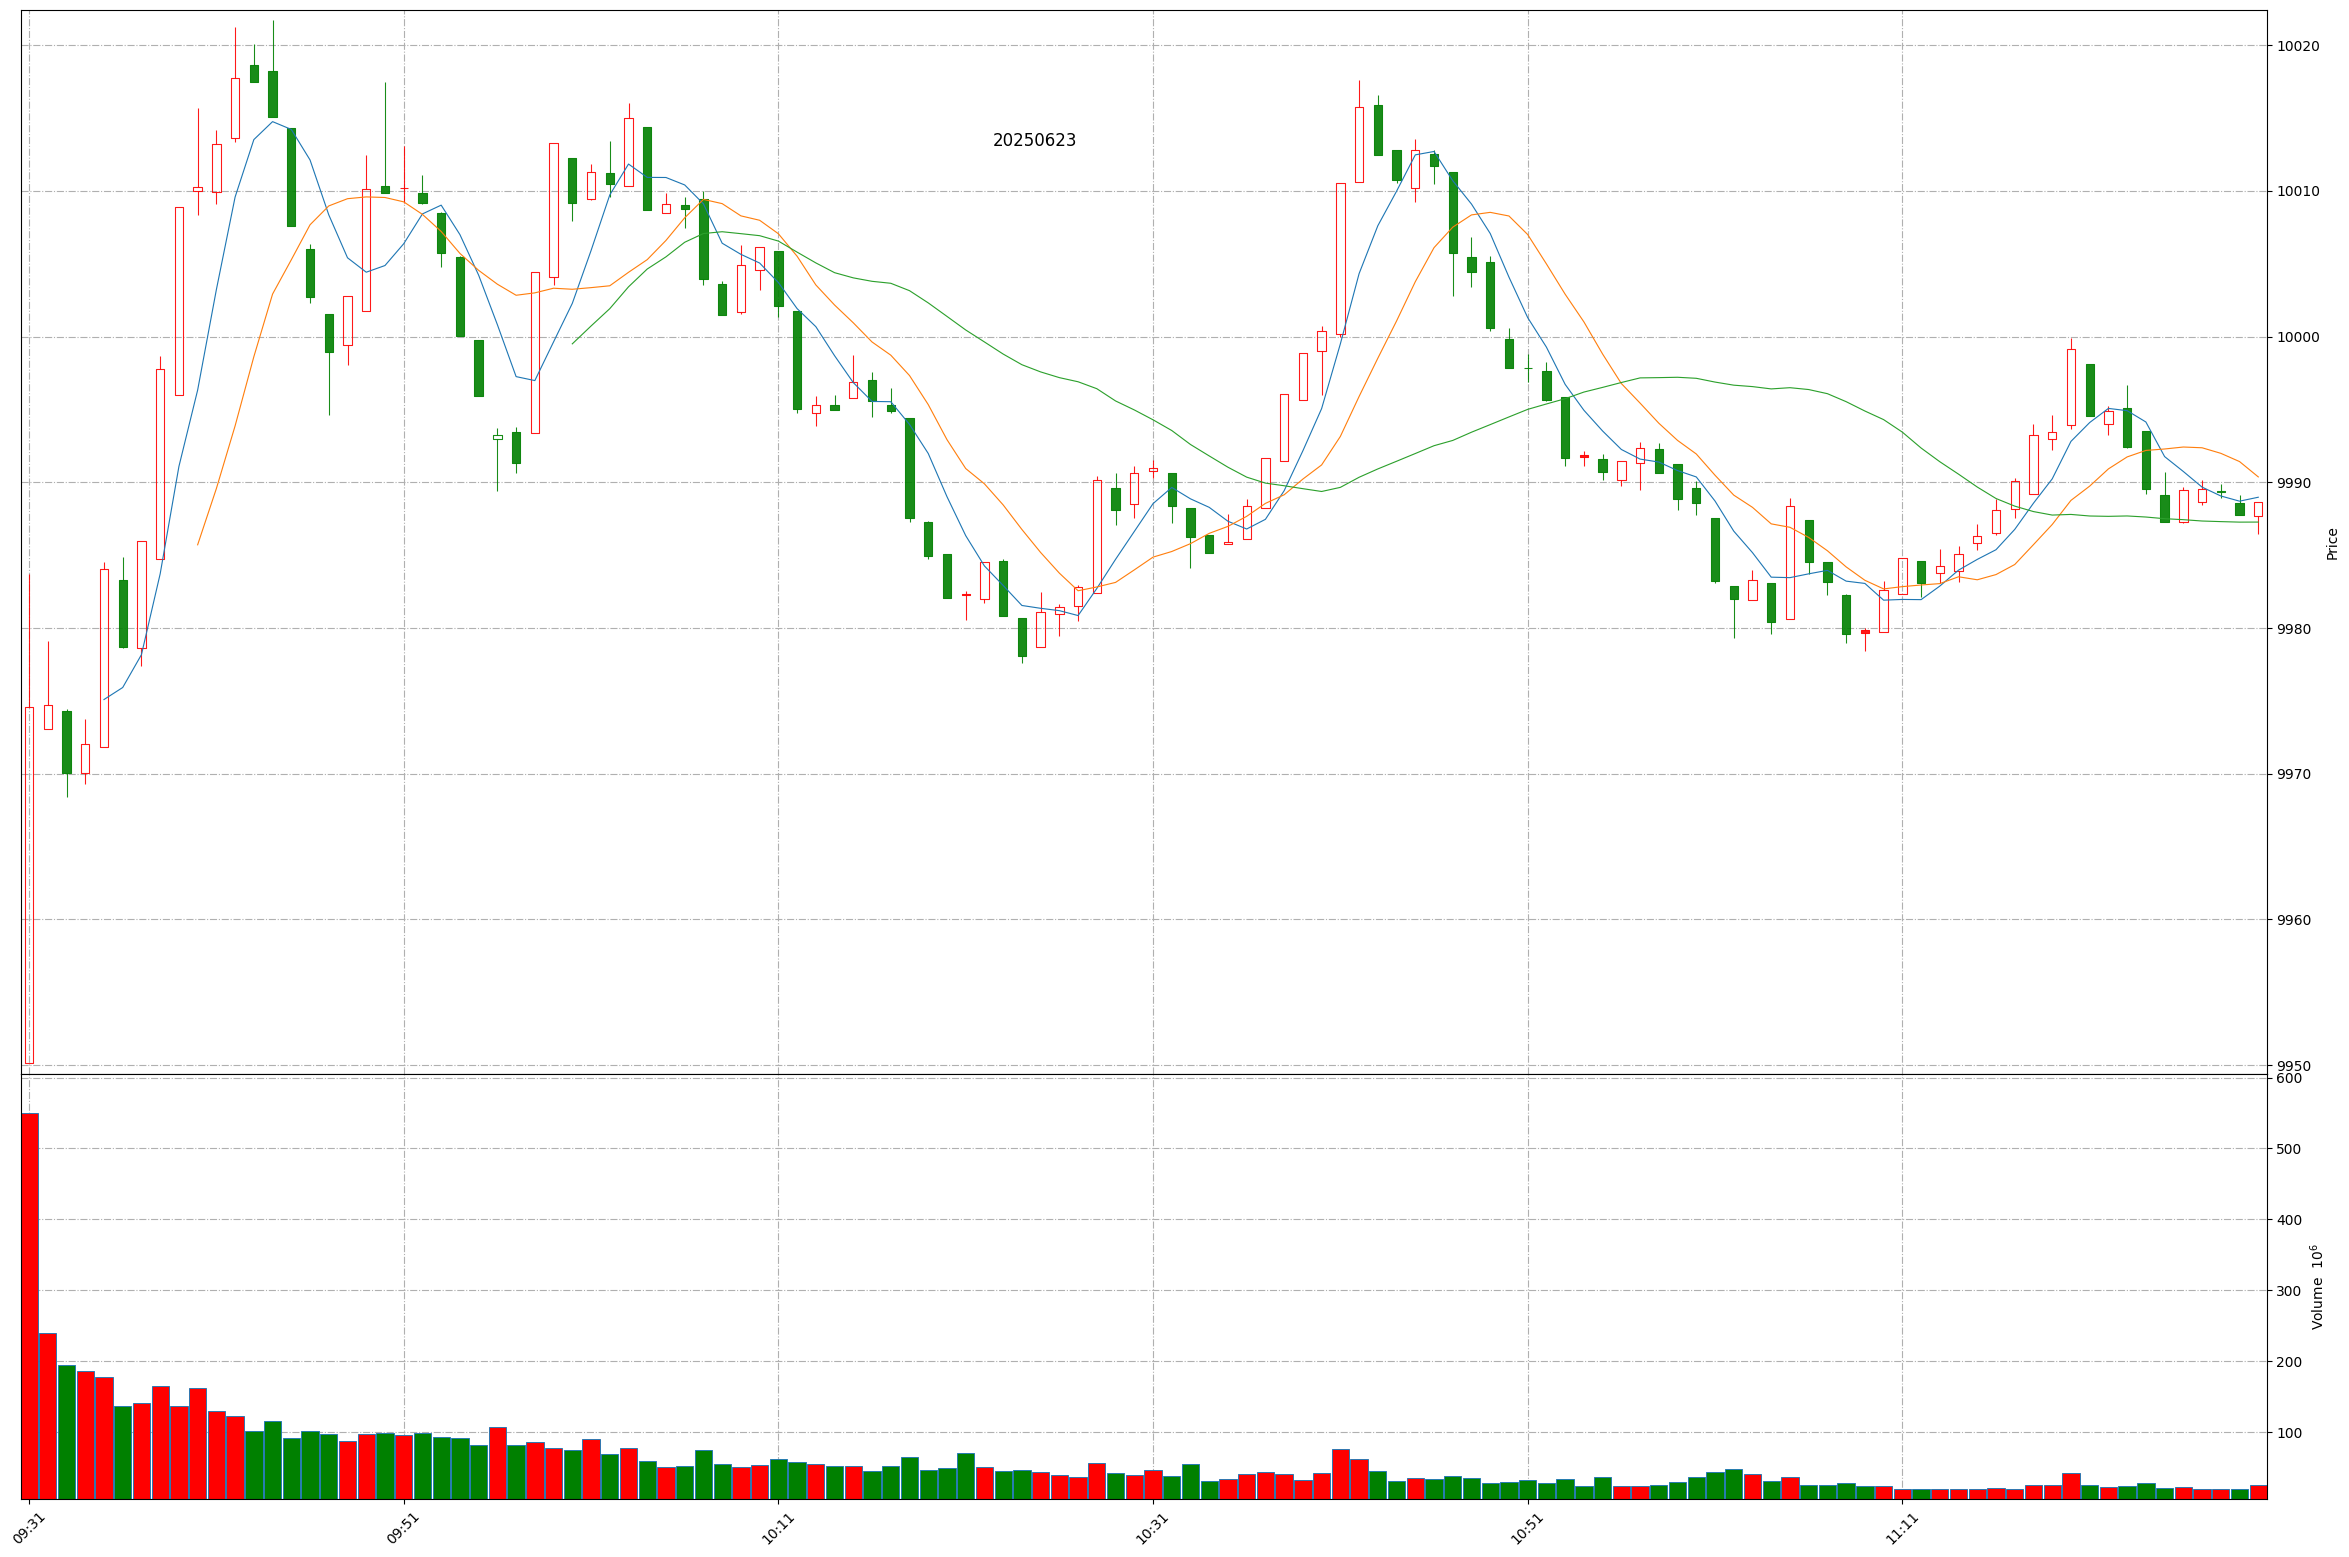
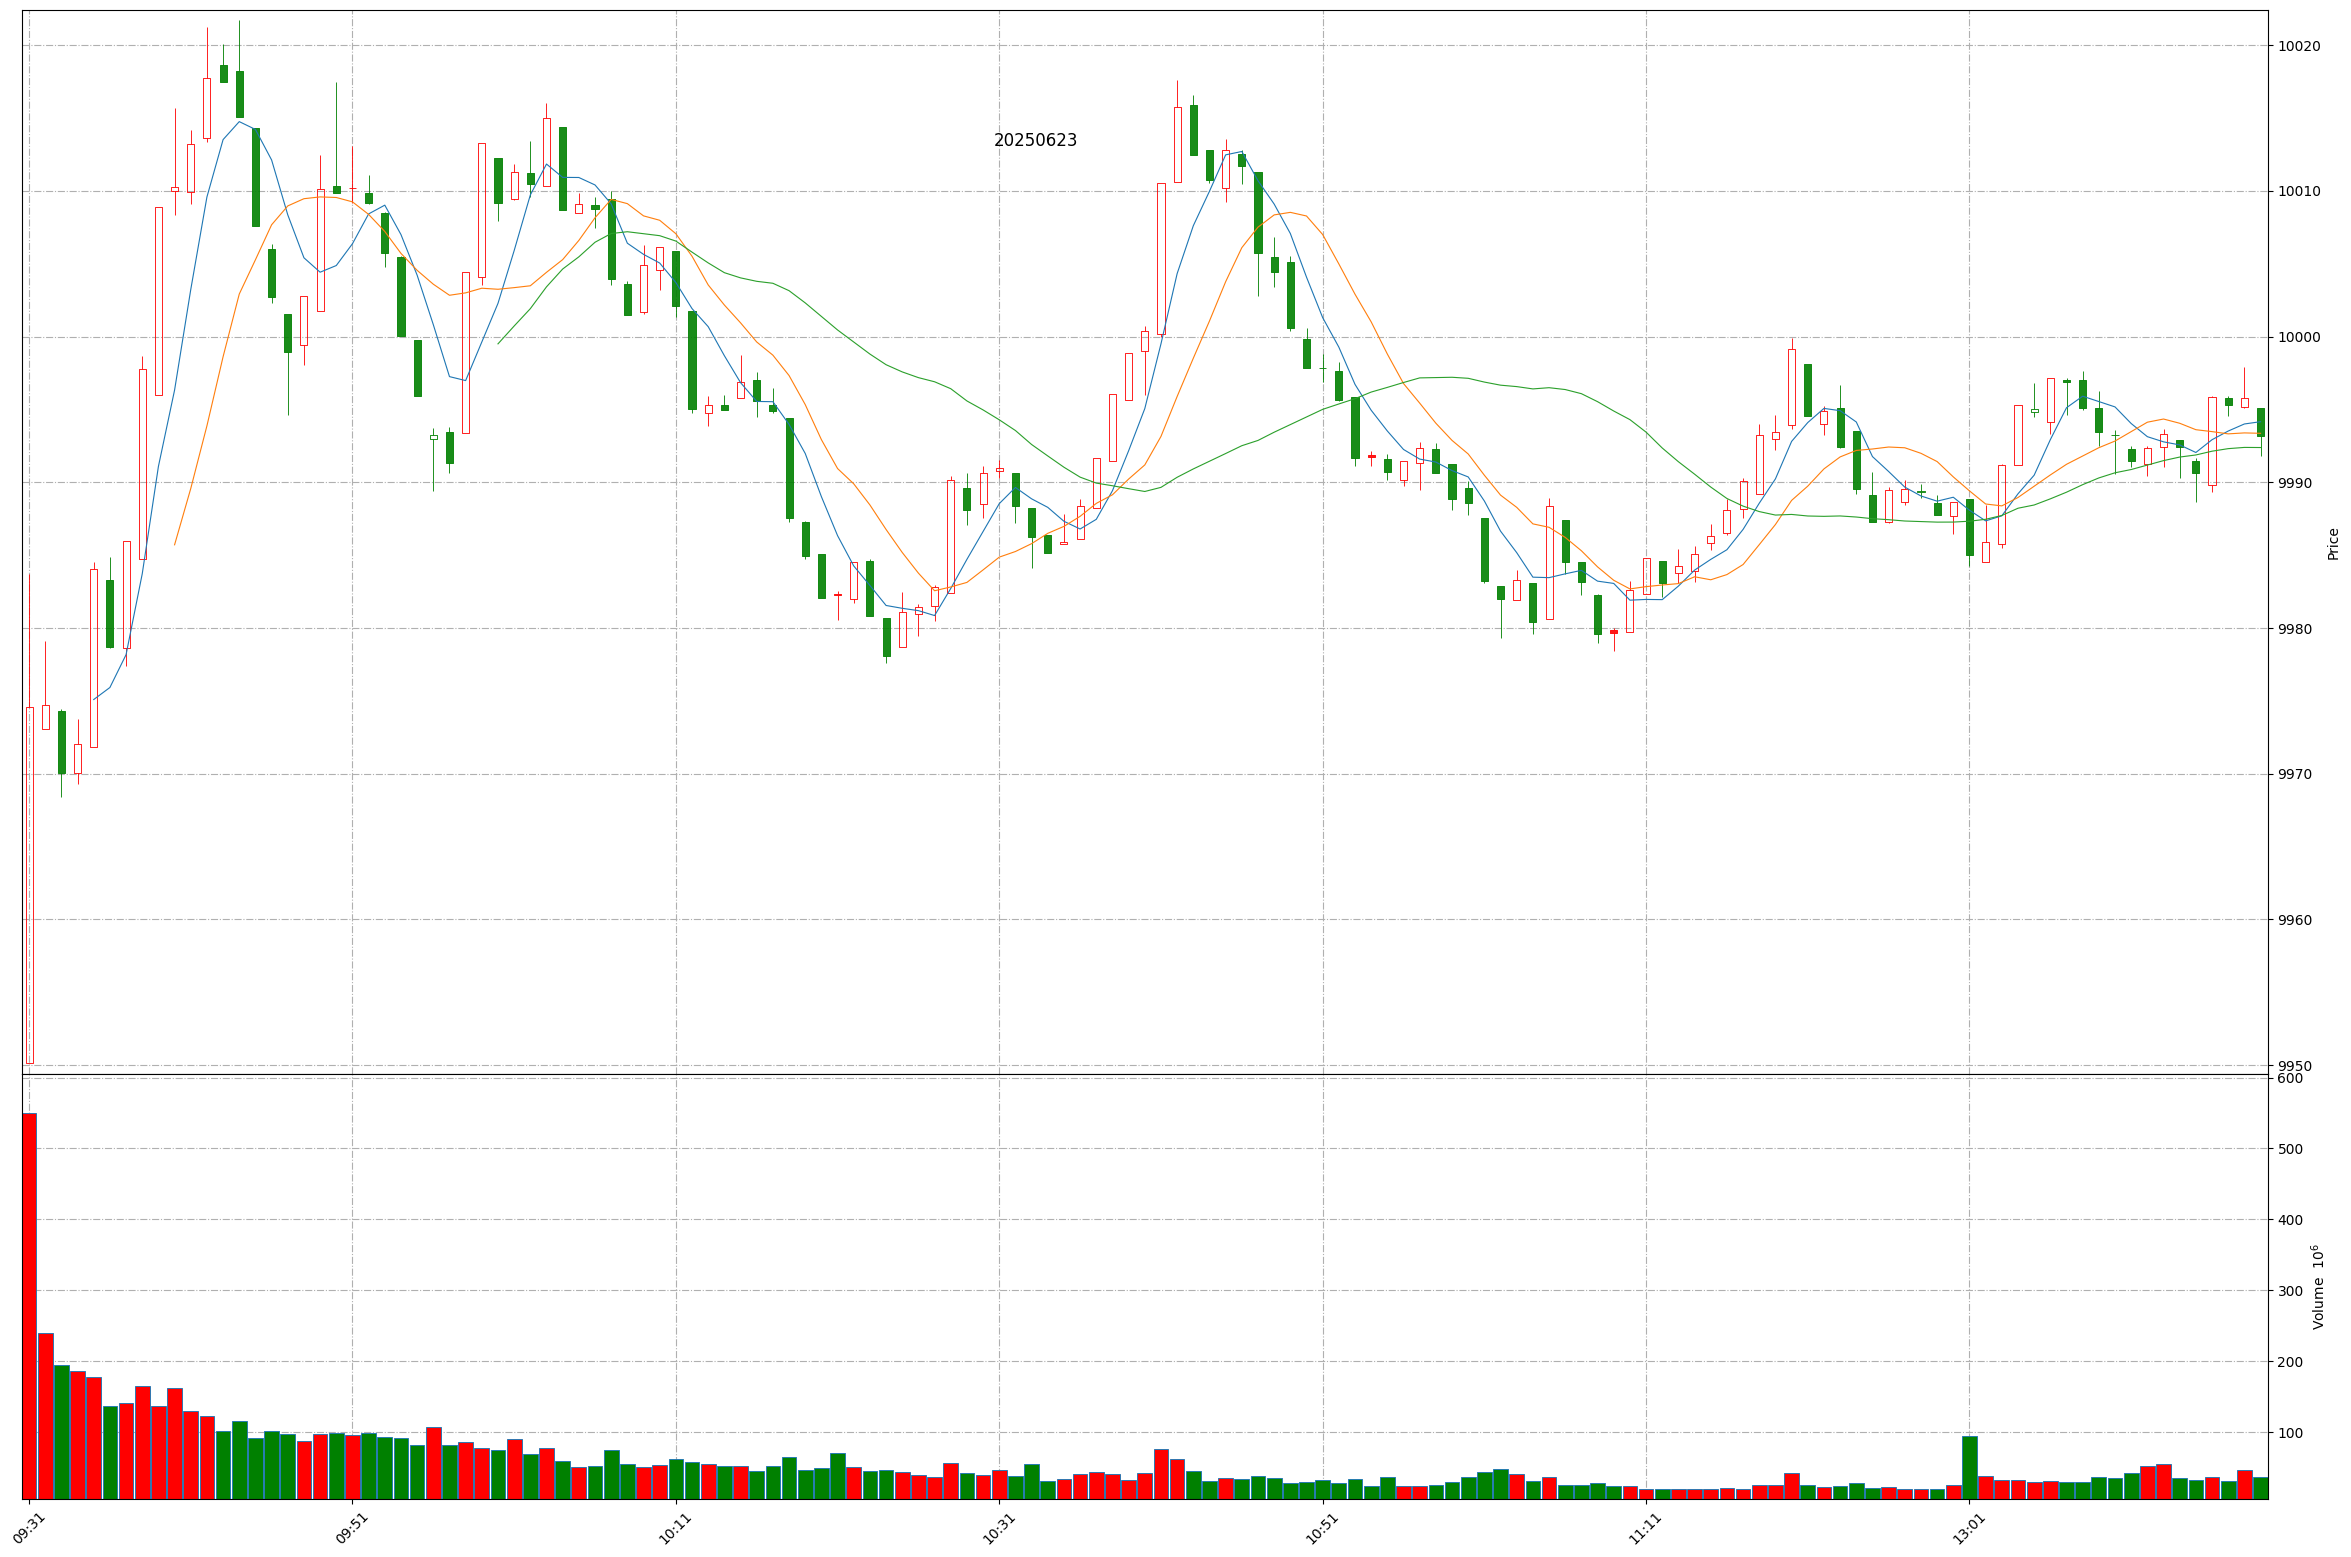
Github action update at 2025-06-23 13:18:53.

diff --git a/README.md b/README.md
@@ -1,11 +1,11 @@
 
 # Daily-A-share-market-quotes 每日 A 股指数（5min 更新）- 20250623
 
-### 上证指数 20250623 12:7
+### 上证指数 20250623 13:18
 ![](./fig/2025/6/20250623-sh000001.png)
 
-### 深证成指 20250623 12:7
+### 深证成指 20250623 13:18
 ![](./fig/2025/6/20250623-sz399001.png)
 
-### 北证50 20250623 12:7
+### 北证50 20250623 13:18
 ![](./fig/2025/6/20250623-bj899050.png)
